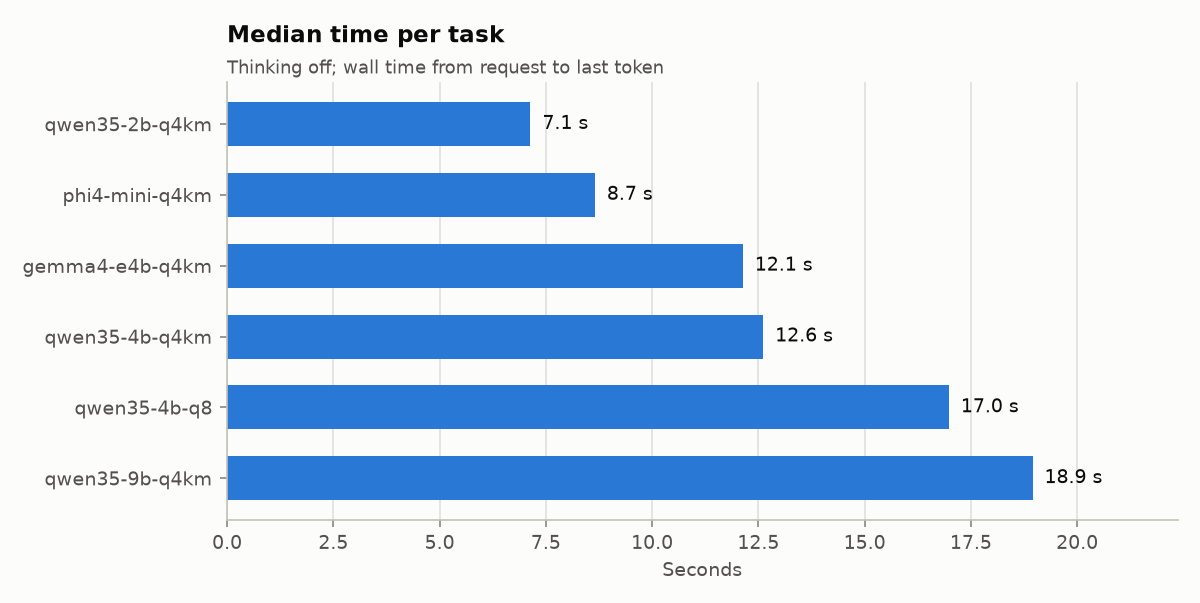
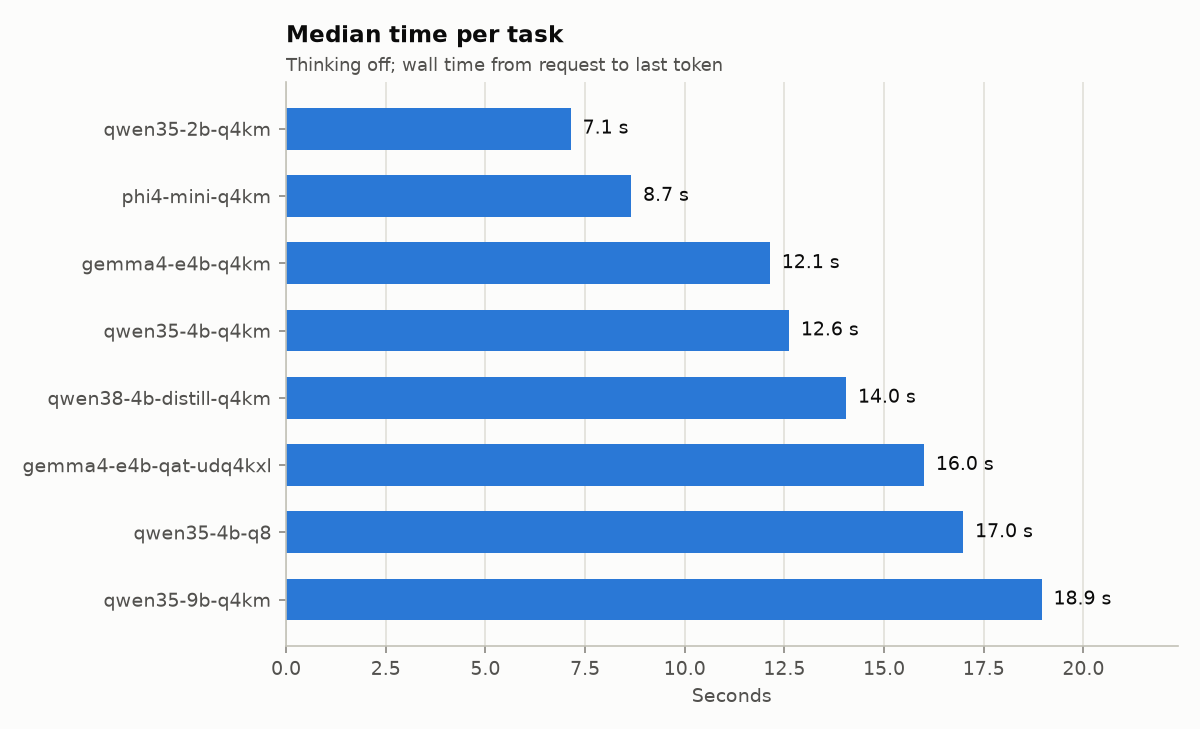
Test Gemma 4 E4B QAT (19/23, tie) and Qwen3.8-4B-Distill (11/23)
Clean llama-bench: QAT decode -7%, prefill +16%, 1.2 GB less memory.
Report quant regex now labels UD-Q4_K_XL correctly.

Changed region(s): [[0.0, 0.0299, 0.9558, 0.9851]]

diff --git a/src/lab/report.py b/src/lab/report.py
@@ -22,7 +22,7 @@ from .tasks import load_tasks  # noqa: E402
 
 REPORT_FILE = RESULTS_DIR / "report.md"
 CHART_DIR = RESULTS_DIR / "charts"
-QUANT_RE = re.compile(r"(UD-IQ\d_\w+|IQ\d_\w+|Q\d_K_[SML]|Q\d_K|Q\d_\d|BF16|F16|F32)", re.I)
+QUANT_RE = re.compile(r"(UD-IQ\d_\w+|IQ\d_\w+|(?:UD-)?Q\d_K_XL|Q\d_K_[SML]|Q\d_K|Q\d_\d|BF16|F16|F32)", re.I)
 QUANT_ORDER = ["UD-IQ2_XXS", "IQ2_XXS", "IQ2_XS", "Q2_K", "Q3_K_M", "Q4_K_M", "Q5_K_M", "Q6_K", "Q8_0", "BF16", "F16"]
 
 # Chart tokens (dataviz reference palette, light surface).

diff --git a/results/report.md b/results/report.md
@@ -1,6 +1,6 @@
 # Harness report
 
-Generated 2026-09-25 13:24 from `runs.jsonl` (152 current runs; 24 tasks in `tasks.yaml`). Sorted by correct answers per hour.
+Generated 2026-09-25 14:37 from `runs.jsonl` (200 current runs; 24 tasks in `tasks.yaml`). Sorted by correct answers per hour.
 
 - **Correct answers per hour** = passed auto-graded runs ÷ hours of wall time spent on them.
 - Thinking-on configs run only the tasks marked `thinking: on/both`, so compare them with care.
@@ -12,7 +12,9 @@ Generated 2026-09-25 13:24 from `runs.jsonl` (152 current runs; 24 tasks in `tas
 |---|---|---|---|---|---|---|---|---|---|---|---|---|---|---|
 | `qwen35-4b-q4km-vulkan-nothink` | Q4_K_M | 2.74 | off | 24 | 17/23 | **74%** | **139** | 12.6 | 1.5 | 14.2 | 243 | 3.69 | 1 | 0 |
 | `phi4-mini-q4km-vulkan-nothink` | Q4_K_M | 2.49 | off | 24 | 7/23 | **30%** | **120** | 8.7 | 0.6 | 17.6 | 148 | 4.88 | 1 | 0 |
+| `qwen38-4b-distill-q4km-vulkan-nothink` | Q4_K_M | 2.78 | off | 24 | 11/23 | **48%** | **119** | 14.0 | 1.5 | 15.3 | 193 | 3.66 | 1 | 0 |
 | `gemma4-e4b-q4km-vulkan-nothink` | Q4_K_M | 5.34 | off | 24 | 19/23 | **83%** | **110** | 12.1 | 1.1 | 13.9 | 343 | 5.69 | 1 | 0 |
+| `gemma4-e4b-qat-udq4kxl-vulkan-nothink` | UD-Q4_K_XL | 4.22 | off | 24 | 19/23 | **83%** | **99** | 16.0 | 0.9 | 12.3 | 344 | 4.48 | 1 | 0 |
 | `qwen35-2b-q4km-vulkan-nothink` | Q4_K_M | 1.28 | off | 24 | 9/23 | **39%** | **81** | 7.1 | 0.6 | 26.8 | 434 | 1.86 | 1 | 1 |
 | `qwen35-9b-q4km-vulkan-nothink` | Q4_K_M | 5.68 | off | 24 | 17/23 | **74%** | **79** | 18.9 | 2.0 | 9.1 | 268 | 5.97 | 1 | 0 |
 | `qwen35-4b-q8-vulkan-nothink` | Q8_0 | 4.48 | off | 24 | 15/23 | **65%** | **55** | 17.0 | 1.4 | 11.4 | 448 | 5.45 | 1 | 1 |
@@ -24,7 +26,9 @@ Generated 2026-09-25 13:24 from `runs.jsonl` (152 current runs; 24 tasks in `tas
 |---|---|---|---|---|---|---|---|
 | `qwen35-4b-q4km` | 4/6 | 2/4 | 4/4 | 0/1 | 3/3 | 2/3 | 2/2 |
 | `phi4-mini-q4km` | 1/6 | 2/4 | 1/4 | 0/1 | 2/3 | 1/3 | 0/2 |
+| `qwen38-4b-distill-q4km` | 1/6 | 1/4 | 2/4 | 0/1 | 3/3 | 2/3 | 2/2 |
 | `gemma4-e4b-q4km` | 3/6 | 4/4 | 4/4 | 0/1 | 3/3 | 3/3 | 2/2 |
+| `gemma4-e4b-qat-udq4kxl` | 4/6 | 4/4 | 3/4 | 0/1 | 3/3 | 3/3 | 2/2 |
 | `qwen35-2b-q4km` | 1/6 | 2/4 | 1/4 | 0/1 | 3/3 | 1/3 | 1/2 |
 | `qwen35-9b-q4km` | 3/6 | 4/4 | 3/4 | 0/1 | 3/3 | 2/3 | 2/2 |
 | `qwen35-4b-q8` | 2/6 | 2/4 | 3/4 | 0/1 | 3/3 | 3/3 | 2/2 |
@@ -34,32 +38,32 @@ Generated 2026-09-25 13:24 from `runs.jsonl` (152 current runs; 24 tasks in `tas
 
 ✓ = passed every repeat, ✗ = failed every repeat, `p/n` = mixed, M = needs manual grading, blank = not run.
 
-| Task | Category | `qwen35-4b-q4km` | `phi4-mini-q4km` | `gemma4-e4b-q4km` | `qwen35-2b-q4km` | `qwen35-9b-q4km` | `qwen35-4b-q8` | `qwen35-4b-q4km-think` |
-|---|---|---|---|---|---|---|---|---|
-| `py-parse-date` | small function | ✓ | ✓ | ✓ | ✗ | ✓ | ✗ |  |
-| `py-normalise-order` | small function | ✓ | ✗ | ✗ | ✗ | ✓ | ✗ |  |
-| `py-merge-slots` | small function | ✓ | ✗ | ✓ | ✓ | ✓ | ✓ |  |
-| `js-parse-query` | small function | ✓ | ✗ | ✓ | ✗ | ✗ | ✓ |  |
-| `js-deep-merge` | small function | ✗ | ✗ | ✗ | ✗ | ✗ | ✗ |  |
-| `cpp-parse-duration` | small function | ✗ | ✗ | ✗ | ✗ | ✗ | ✗ |  |
-| `bug-py-paginate` | bug finding | ✗ | ✗ | ✓ | ✗ | ✓ | ✗ | ✓ |
-| `bug-py-split-pence` | bug finding | ✓ | ✓ | ✓ | ✓ | ✓ | ✓ | ✓ |
-| `bug-js-top-scores` | bug finding | ✓ | ✓ | ✓ | ✓ | ✓ | ✓ | ✓ |
-| `bug-sql-left-join` | bug finding | ✗ | ✗ | ✓ | ✗ | ✓ | ✗ | ✓ |
-| `sql-top-customers` | sql regex | ✓ | ✓ | ✓ | ✓ | ✓ | ✓ |  |
-| `sql-monthly-running-total` | sql regex | ✓ | ✗ | ✓ | ✗ | ✓ | ✓ |  |
-| `sql-latest-status` | sql regex | ✓ | ✗ | ✓ | ✗ | ✗ | ✗ |  |
-| `py-regex-log-line` | sql regex | ✓ | ✗ | ✓ | ✗ | ✓ | ✓ |  |
-| `explain-js-event-loop` | explain code | ✗ | ✗ | ✗ | ✗ | ✗ | ✗ | ✗ |
-| `explain-py-rate-cache` | explain code | M | M | M | M | M | M |  |
-| `math-batch-job` | maths logic | ✓ | ✓ | ✓ | ✓ | ✓ | ✓ | ✓ |
-| `math-sla-downtime` | maths logic | ✓ | ✓ | ✓ | ✓ | ✓ | ✓ | ✓ |
-| `math-pin-count` | maths logic | ✓ | ✗ | ✓ | ✓ | ✓ | ✓ | ✓ |
-| `if-three-bullets` | instruction following | ✗ | ✗ | ✓ | ✗ | ✗ | ✓ |  |
-| `if-json-extract` | instruction following | ✓ | ✗ | ✓ | ✗ | ✓ | ✓ |  |
-| `if-one-sentence` | instruction following | ✓ | ✓ | ✓ | ✓ | ✓ | ✓ |  |
-| `sum-incident` | summarise | ✓ | ✗ | ✓ | ✓ | ✓ | ✓ |  |
-| `sum-release-notes` | summarise | ✓ | ✗ | ✓ | ✗ | ✓ | ✓ |  |
+| Task | Category | `qwen35-4b-q4km` | `phi4-mini-q4km` | `qwen38-4b-distill-q4km` | `gemma4-e4b-q4km` | `gemma4-e4b-qat-udq4kxl` | `qwen35-2b-q4km` | `qwen35-9b-q4km` | `qwen35-4b-q8` | `qwen35-4b-q4km-think` |
+|---|---|---|---|---|---|---|---|---|---|---|
+| `py-parse-date` | small function | ✓ | ✓ | ✗ | ✓ | ✓ | ✗ | ✓ | ✗ |  |
+| `py-normalise-order` | small function | ✓ | ✗ | ✗ | ✗ | ✗ | ✗ | ✓ | ✗ |  |
+| `py-merge-slots` | small function | ✓ | ✗ | ✓ | ✓ | ✓ | ✓ | ✓ | ✓ |  |
+| `js-parse-query` | small function | ✓ | ✗ | ✗ | ✓ | ✓ | ✗ | ✗ | ✓ |  |
+| `js-deep-merge` | small function | ✗ | ✗ | ✗ | ✗ | ✓ | ✗ | ✗ | ✗ |  |
+| `cpp-parse-duration` | small function | ✗ | ✗ | ✗ | ✗ | ✗ | ✗ | ✗ | ✗ |  |
+| `bug-py-paginate` | bug finding | ✗ | ✗ | ✗ | ✓ | ✓ | ✗ | ✓ | ✗ | ✓ |
+| `bug-py-split-pence` | bug finding | ✓ | ✓ | ✓ | ✓ | ✓ | ✓ | ✓ | ✓ | ✓ |
+| `bug-js-top-scores` | bug finding | ✓ | ✓ | ✗ | ✓ | ✓ | ✓ | ✓ | ✓ | ✓ |
+| `bug-sql-left-join` | bug finding | ✗ | ✗ | ✗ | ✓ | ✓ | ✗ | ✓ | ✗ | ✓ |
+| `sql-top-customers` | sql regex | ✓ | ✓ | ✓ | ✓ | ✓ | ✓ | ✓ | ✓ |  |
+| `sql-monthly-running-total` | sql regex | ✓ | ✗ | ✗ | ✓ | ✓ | ✗ | ✓ | ✓ |  |
+| `sql-latest-status` | sql regex | ✓ | ✗ | ✗ | ✓ | ✗ | ✗ | ✗ | ✗ |  |
+| `py-regex-log-line` | sql regex | ✓ | ✗ | ✓ | ✓ | ✓ | ✗ | ✓ | ✓ |  |
+| `explain-js-event-loop` | explain code | ✗ | ✗ | ✗ | ✗ | ✗ | ✗ | ✗ | ✗ | ✗ |
+| `explain-py-rate-cache` | explain code | M | M | M | M | M | M | M | M |  |
+| `math-batch-job` | maths logic | ✓ | ✓ | ✓ | ✓ | ✓ | ✓ | ✓ | ✓ | ✓ |
+| `math-sla-downtime` | maths logic | ✓ | ✓ | ✓ | ✓ | ✓ | ✓ | ✓ | ✓ | ✓ |
+| `math-pin-count` | maths logic | ✓ | ✗ | ✓ | ✓ | ✓ | ✓ | ✓ | ✓ | ✓ |
+| `if-three-bullets` | instruction following | ✗ | ✗ | ✗ | ✓ | ✓ | ✗ | ✗ | ✓ |  |
+| `if-json-extract` | instruction following | ✓ | ✗ | ✓ | ✓ | ✓ | ✗ | ✓ | ✓ |  |
+| `if-one-sentence` | instruction following | ✓ | ✓ | ✓ | ✓ | ✓ | ✓ | ✓ | ✓ |  |
+| `sum-incident` | summarise | ✓ | ✗ | ✓ | ✓ | ✓ | ✓ | ✓ | ✓ |  |
+| `sum-release-notes` | summarise | ✓ | ✗ | ✓ | ✓ | ✓ | ✗ | ✓ | ✓ |  |
 
 ## Charts
 

diff --git a/LOCAL_LLM_LAB.md b/LOCAL_LLM_LAB.md
@@ -1,6 +1,6 @@
 # Local LLM Lab: Master File
 
-> **Version:** 28 · **Last updated:** 2026-09-25 · **Owner:** Pratham
+> **Version:** 29 · **Last updated:** 2026-09-25 · **Owner:** Pratham
 > **Current machine:** Laptop (ASUS Zenbook 14) · **Current phase:** 4 done (harness complete); 5 next (3 repeats per task)
 
 This one file holds everything: status, plan, commands, hardware facts, model choices, research notes, and the spec for the test harness. It is written so that a human **or** Claude Code can pick it up and continue with no other context.
@@ -953,10 +953,14 @@ Observations:
 | Qwen3.5-2B Q4_K_M | 9/23 (39%) | 81 | 7.1 | 26.8 | 1.86 | 192 MiB |
 | Phi-4-mini Q4_K_M (greedy) | 7/23 (30%) | 120 | 8.7 | 17.6 | 4.88 | **2,048 MiB** |
 | Qwen3.5-4B Q8_0 | 15/23 (65%) | 55 | 17.0 | 11.4 | 5.45 | 512 MiB |
+| **Gemma 4 E4B QAT UD-Q4_K_XL** (2026-09-25) | **19/23 (83%)** | 99 | 16.0 | 12.3 | **4.48** | 40 MiB |
+| "Qwen3.8-4B-Distill" Q4_K_M (empero-ai, 2026-09-25) | 11/23 (48%) | 119 | 14.0 | 15.3 | 3.66 | 512 MiB |
 
 - KV per token confirmed for three designs: Qwen3.5 hybrid 32 KB, Phi-4-mini 128 KB (as predicted in section 4), Gemma 4 E4B ~2.5 KB (likely sliding-window attention; not yet confirmed from its log).
 - Phi-4-mini answers are coherent (not the Vulkan garbage bug); its failures are real logic errors. Its 120 correct/hour comes from speed, not accuracy: **judge pass rate first, then correct/hour.**
 - The 9B scored the same as the 4B at 1.5× the time: no gain on these tasks.
+- **Gemma QAT vs Gemma Q4_K_M: a tie on quality** (19/23 each; QAT passed `js-deep-merge`, failed `sql-latest-status`). Clean `lab bench` (nothing else running, 7.8 GB free): decode **12.2 vs 13.2 tok/s (−7%)**, prefill **405 vs 349 tok/s (+16%)**, memory **4.48 vs 5.69 GiB (−1.2 GB)**. The slower decode is real, not memory pressure; cause not confirmed (quant mix).
+- **"Qwen3.8-4B-Distill" is weaker than the original Qwen3.5-4B** (11 vs 17/23). Setup checked: 0 thinking tokens, no leaked think tags, all `stop`; failures are real code/SQL errors. Confirms the caution about community distills with borrowed names.
 - **Q8_0 scored lower than Q4_K_M (15 vs 17)**, which 8-bit should not do: it failed 3 tasks Q4 passed and passed 1 Q4 failed (all 4 failures checked: real errors, incl. `js-deep-merge` looping until the 4,096-token limit, 6 min). With 1 repeat, **±2-3 tasks is noise**; this is also why Gemma's 2-task lead is not yet proof. Q8 is also slower (11.4 vs 14.2 tok/s, 5.45 vs 3.69 GiB).
 
 **Provisional verdict (n = 1 repeat; Gemma's lead is only 2 tasks, so Phase 5's 3 repeats must confirm):**
@@ -1014,7 +1018,7 @@ Swap point (9B Q4_K_M): -c = ___ · Needle 4K/16K/32K: **found / found / GPU cra
 
 ### 9.8 Laptop verdict
 **Provisional (2026-09-25, 1 repeat per task; Phase 5 must confirm):**
-- Daily model: **Gemma 4 E4B Q4_K_M, thinking off** (why: most correct, 19/23; same time per task as Qwen 4B; tiny KV cache, 40 MiB at 16K)
+- Daily model: **Gemma 4 E4B, thinking off** (why: most correct, 19/23; tiny KV cache, 40 MiB at 16K). **QAT UD-Q4_K_XL** (4.22 GB file, 4.48 GiB in use) when memory is tight or prompts are long (prefill +16%); **Q4_K_M** (5.34 GB, 5.69 GiB) when decode speed matters (+7%). Same accuracy.
 - Quick-task / low-memory model: **Qwen3.5-4B Q4_K_M, thinking off** (17/23, most correct answers per hour, 3.7 GiB)
 - Thinking: **off by default; on only to retry a failed bug fix** (Qwen 4B fixed 2 of 2 failed bug tasks, ~6-10 min each)
 - Breaking points: speed **Bonsai 27B / 9B too slow for the gain** · quality **2B and Phi-4-mini too weak (≤ 39%)** · memory/context **~16K-token prompts on Vulkan (32K crashed)**
@@ -1250,3 +1254,4 @@ Sources: Hugging Face API; [grigio.org Panther Lake backend benchmark](https://g
 | 2026-09-25 | Claude Code | v26: harness complete. Q8_0 finished (15/23: lower than Q4 → 1-repeat noise is ±2-3 tasks); `lab needle` tested (4K/16K found, 16K prefill 178 s, 32K Vulkan `ErrorDeviceLost`); `lab bench` tested (batch-size hypothesis rejected); needle errors now stored as `found: null`; report chart labels show pass rate; provisional laptop verdict in 9.8 |
 | 2026-09-25 | Claude Code | v27: Hugging Face + X search for laptop models (12.6): try Gemma 4 E4B QAT + MTP (4.22 GB) and Qwen3.5-4B MTP; skipped LFM2.5-8B-A1B (not for coding), 9B+ forks, 26B+ models, community distills, OpenVINO backend (fails on hybrid models) |
 | 2026-09-25 | Claude Code | v28: filtered Pratham's Hugging Face list by laptop speed (12.6): test Nemotron-3-Nano-4B next; Ornith smallest is 9B (runs ~9 tok/s, slower); "Qwen3.8-4B-Distill" is a community model (no official Qwen3.8 4B); Ornith-1.5-35B-A3B noted as PC candidate |
+| 2026-09-25 | Claude Code | v29: tested 2 downloads: Gemma 4 E4B QAT UD-Q4_K_XL 19/23 (tie with Q4_K_M; −1.2 GB memory, prefill +16%, decode −7% by clean `lab bench`); "Qwen3.8-4B-Distill" 11/23 (worse than Qwen3.5-4B); report quant label handles `UD-Q4_K_XL` |
